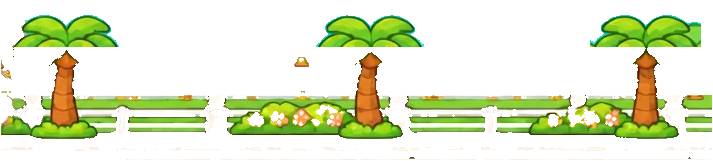
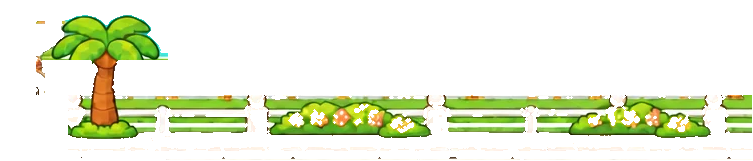
카피공항 예시판: 계류장 비행기 두 대 나란히·나머지 제거, 야자나무 한 그루만, 비행기가 야자나무 뒤를 지나 터미널 뒤로 사라지기 반복
Claude-Session: https://claude.ai/code/session_015t7mweLLBzEFYGgsGmysr6

diff --git a/js/airport.js b/js/airport.js
@@ -33,7 +33,7 @@ export function openAirport(o) {
   // 바깥
   const TX = W * 0.14, TWD = W * 0.3, doorX = TX + TWD * 0.42;
   const outPlane = h('img', { class: 'ap-plane out', src: 'img/air/plane.webp', alt: '' });
-  const parked = [[0.035, 1], [0.105, 0.85], [0.475, 1], [0.575, 0.9], [0.94, 1]].map(([x, k], i) => h('img', { class: 'ap-parked', src: 'img/air/plane.webp', alt: '', style: { left: W * x + 'px', width: 8.5 * k + '%', transform: `translate(-50%, -100%)${i % 2 ? ' scaleX(-1)' : ''}` } })); // 계류장에 서 있는 비행기들(터미널 양옆·활주로 끝)
+  const parked = [0.035, 0.105].map(x => h('img', { class: 'ap-parked', src: 'img/air/plane.webp', alt: '', style: { left: W * x + 'px' } })); // 터미널 왼쪽 계류장: 두 대가 나란히
   const term = h('button', { class: 'ap-term', 'aria-label': '카피공항 들어가기', style: { left: TX + 'px', width: TWD + 'px' }, onClick: () => walkTo(doorX, goIn) }, h('img', { src: 'img/air/terminal.webp', alt: '' }), h('b', { class: 'ap-term-t' }, '카피공항'));
   const front = h('img', { class: 'ap-front', src: 'img/air/front.webp', alt: '' }); // 활주로 앞 야자수·난간: 비행기보다 앞에 보이게
   const exitSign = h('button', { class: 'fm-exit', style: { left: W - Math.round(W * 0.13) + 'px' }, onClick: () => close() }, '놀이터로 →');
@@ -84,6 +84,10 @@ export function openAirport(o) {
   function depAt(t) { const blk = Math.floor(t / FLIGHT.every) * FLIGHT.every, d = blk + FLIGHT.land + FLIGHT.stay; return t < d ? d : d + FLIGHT.every; }
 
   let lastT = performance.now(), tick = 0;
+  // 바깥 비행기(14초마다): 4초 동안 내려앉고 → 10초 동안 왼쪽으로 천천히 굴러 터미널 뒤로 들어가 사라진다
+  function drawOut(t) { const k = t % 14000, el = outPlane; let x, y = 0, r = 0;
+    if (k < 4000) { const e = ease(k / 4000); x = 1.15 - 0.3 * e; y = -0.9 * (1 - e); r = -6 * (1 - e); } else { const e = (k - 4000) / 10000; x = 0.85 - 0.65 * (1 - Math.pow(1 - e, 1.6)); }
+    el.style.opacity = x < 0.22 ? String(Math.max(0, (x - 0.18) / 0.04)) : '1'; el.style.left = x * 100 + '%'; el.style.transform = `translate(-50%, ${(y * 100 - 100).toFixed(1)}%) rotate(${r.toFixed(1)}deg)`; }
   function drawPlane(el, f, at) { const q = planePos(f, at); if (!q.on) { el.style.opacity = '0'; return; } el.style.opacity = '1'; el.style.left = q.x * 100 + '%'; el.style.transform = `translate(-50%, ${(q.y * 100 - 100).toFixed(1)}%) rotate(${q.r.toFixed(1)}deg)${q.flip ? ' scaleX(-1)' : ''}`; }
   function drawBoard(f) { const t = now(), d0 = depAt(t), rows = [0, 1, 2].map(i => { const d = d0 + i * FLIGHT.every, st = i ? '예정' : canBoard(f) ? `탑승 마감 ${mmss(f.left)}` : f.phase === 'land' ? '도착 중 · 곧 탑승' : f.phase === 'off' ? '출발' : `${mmss(d - FLIGHT.stay - FLIGHT.land - t)} 뒤 도착`; return [hhmm(d), st, !i && canBoard(f)]; });
     const key = rows.map(r => r.join('|')).join('/'); if (key !== boardRows.dataset.k) { boardRows.dataset.k = key; boardRows.replaceChildren(...rows.map(([tm, st, on]) => h('div', { class: 'ap-brow' + (on ? ' on' : '') }, h('b', null, tm), h('span', null, DEST), h('em', null, st)))); }
@@ -97,7 +101,7 @@ export function openAirport(o) {
     const want = me.x - scroller.clientWidth / 2; if (Math.abs(scroller.scrollLeft - want) > 4 && (meEl.classList.contains('walk') || dir)) scroller.scrollLeft += (want - scroller.scrollLeft) * Math.min(1, dt * 6);
     const gate = atGate(), near = inside ? me.x < W * 0.24 || gate : Math.abs(me.x - doorX) < TWD * 0.55, lab = !inside ? '✈ 공항 들어가기' : gate ? '✈ 탑승하기' : '🎫 탑승권 사기';
     if (enterBtn.hidden === near) enterBtn.hidden = !near; if (enterBtn.textContent !== lab) enterBtn.textContent = lab;
-    const f = flightNow(now()); if (inside) drawPlane(inPlane, f, 0.2); else { const k = now() % 20000; drawPlane(outPlane, k < 10000 ? { phase: k < 8000 ? 'land' : 'stay', p: Math.min(1, k / 8000) } : k < 18000 ? { phase: 'off', p: (k - 10000) / 8000 } : { phase: 'none' }, 0.5); } // 바깥은 10초마다 내려앉고 떠나는 모습을 되풀이
+    const f = flightNow(now()); if (inside) drawPlane(inPlane, f, 0.2); else drawOut(now()); // 바깥: 오른쪽 하늘에서 내려앉아 야자나무 뒤를 지나 천천히 터미널 뒤로 사라지기를 되풀이
     if ((tick += dt) > 0.5) { tick = 0; drawBoard(f); }
     raf = requestAnimationFrame(step); }
   raf = requestAnimationFrame(step);

diff --git a/css/app.css b/css/app.css
@@ -3127,12 +3127,12 @@ img.kb-sic { width: 30px; height: 30px; object-fit: contain; display: block; mar
 .og-in.lock .og-fill{filter:grayscale(1);opacity:.55;animation:none}
 /* ✈ 카피공항 (농장처럼 따로 된 공간) */
 .ap-world { background: center / 100% 100% no-repeat; overflow: hidden; margin: 0 auto; } .ap-world[hidden] { display: none; }
-.ap-runway { position: absolute; left: 49%; right: 0; top: 58.5%; height: 0; z-index: 0; }
+.ap-runway { position: absolute; left: 0; right: 0; top: 58.5%; height: 0; z-index: 0; }
 .ap-window { position: absolute; left: 43.6%; width: 55%; top: 18%; height: 42%; overflow: hidden; z-index: 0; }
 .ap-plane { position: absolute; bottom: 0; width: 26%; opacity: 0; pointer-events: none; transform-origin: 50% 100%; filter: drop-shadow(0 3px 3px rgba(0,0,0,.18)); will-change: transform, left; }
-.ap-runway .ap-plane { top: 0; bottom: auto; width: 20%; }
+.ap-runway .ap-plane { top: 0; bottom: auto; width: 10.5%; }
 .ap-window .ap-plane { top: 97%; bottom: auto; width: 46%; }
-.ap-parked { position: absolute; top: 57%; width: 8.5%; transform: translate(-50%, -100%); z-index: 1; pointer-events: none; }
+.ap-parked { position: absolute; top: 55.5%; width: 6.6%; transform: translate(-50%, -100%); z-index: 1; pointer-events: none; }
 .ap-term { position: absolute; bottom: 31%; z-index: 2; padding: 0; border: 0; background: none; cursor: pointer; aspect-ratio: 900 / 682; container-type: inline-size; }
 .ap-term img { width: 100%; height: 100%; display: block; filter: drop-shadow(0 6px 6px rgba(0,0,0,.18)); }
 .ap-term:active { transform: scale(.98); }
@@ -3167,7 +3167,7 @@ img.kb-sic { width: 30px; height: 30px; object-fit: contain; display: block; mar
 .ap-tk b { font: 900 15px/1.2 var(--head); color: #2F6FA8; } .ap-tk small { grid-row: 2; font-size: 12px; color: #6a7f95; } .ap-tk em { grid-row: 1 / 3; grid-column: 2; align-self: center; font: 900 14px/1 var(--head); font-style: normal; color: #B8860B; background: #FFF3C4; border: 2px solid #E0B43A; border-radius: 10px; padding: 6px 8px; }
 .ap-tk:active { transform: scale(.98); }
 
-.ap-front { position: absolute; left: 46.95%; top: 43.92%; width: 53.05%; height: 27.96%; z-index: 1; pointer-events: none; }
+.ap-front { position: absolute; left: 44%; top: 43.92%; width: 56%; height: 27.96%; z-index: 1; pointer-events: none; }
 .ap-lr { display: flex; align-items: flex-end; gap: 6px; }
 .ap-ud { display: flex; flex-direction: column; gap: 4px; } .ap-ud[hidden] { display: none; }
 .fm-dp.ap-v { width: 46px; height: 40px; min-width: 0; font-size: 16px; padding: 0; }
